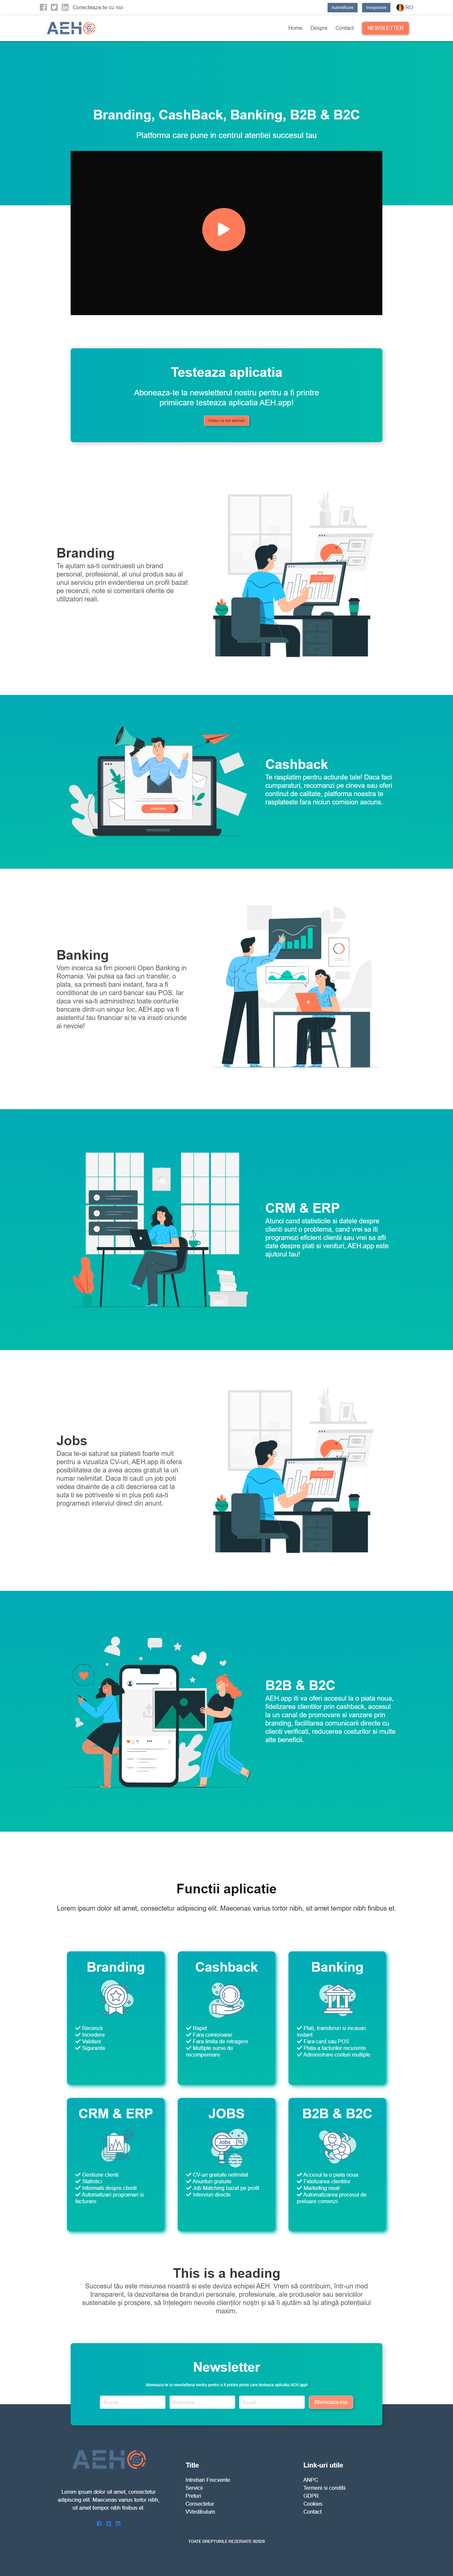
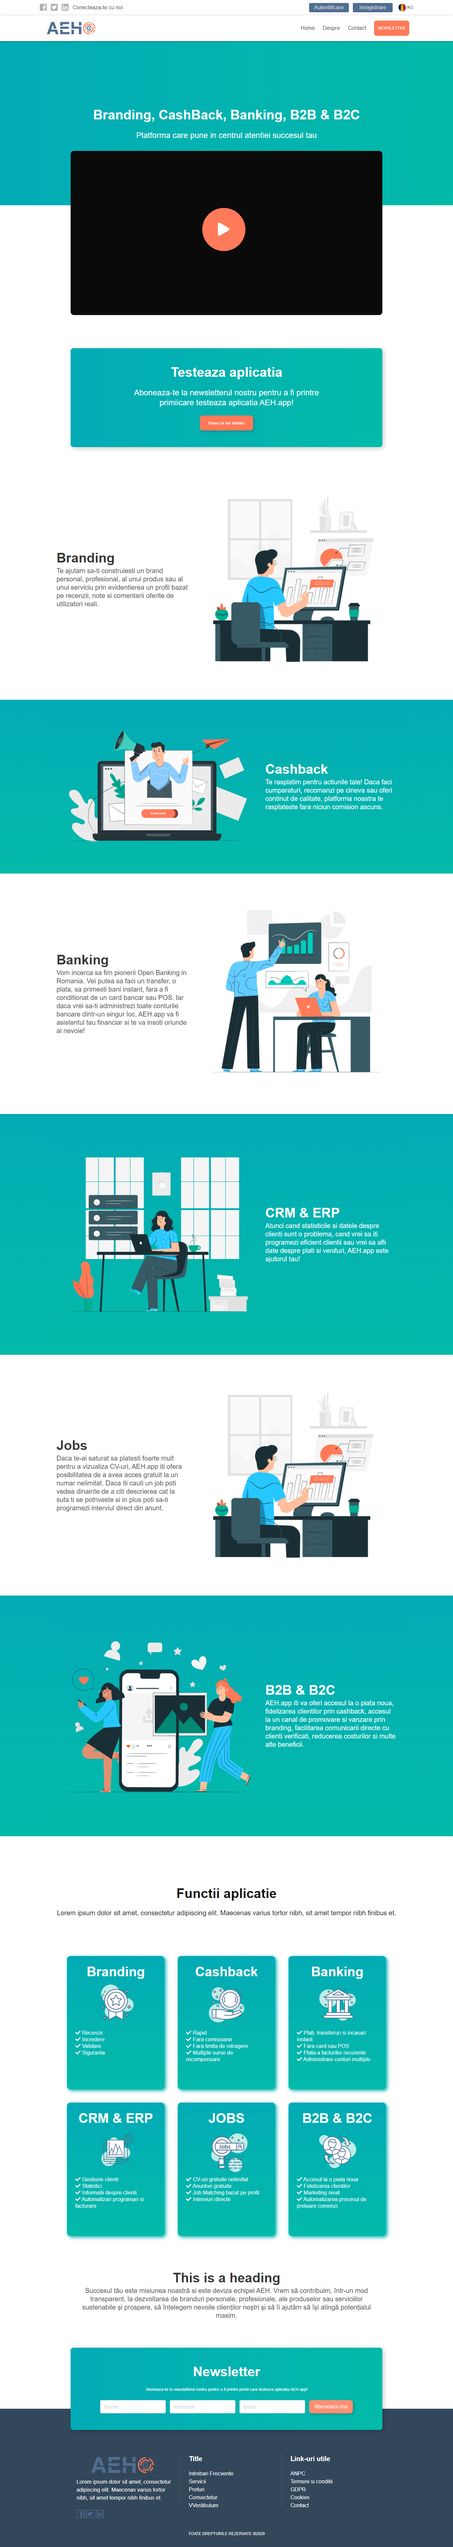
bulma

diff --git a/project-bulma/index.html b/project-bulma/index.html
@@ -17,17 +17,17 @@
                 <div class="level-item">Conecteaza-te cu noi</div>
             </div>
             <div class="level-right">
-                <p class="level-item"><a class="button is-small button-customize">Autentificare</a></p>
-                <p class="level-item"><a class="button is-small button-customize">Inregistrare</a></p>
+                <p class="level-item"><a class="button is-small button-customize is-size-6">Autentificare</a></p>
+                <p class="level-item"><a class="button is-small button-customize is-size-6">Inregistrare</a></p>
                 <figure class="image is-32x32">
                     <img class="is-square" src="images/ro-flag.png">
                 </figure>
-                <div class="text">RO</div>
+                <div class="text is-size-7">RO</div>
             </div>
         </nav>
         <nav class="navbar" role="navigation" aria-label="main navigation">
             <div class="navbar-brand">
-                <a class="navbar-item" href="https://bulma.io">
+                <a class="navbar-item" href="">
                     <figure class="image">
                         <img src="images/aeh-logo-final.png" alt="AEH">
                     </figure>
@@ -40,18 +40,18 @@
             </div>
             <div id="navbarBasicExample" class="navbar-menu">
                 <div class="navbar-end">
-                    <a class="navbar-item">
+                    <a class="navbar-item is-size-6">
                         Home
                     </a>
-                    <a class="navbar-item">
+                    <a class="navbar-item is-size-6">
                         Despre
                     </a>
-                    <a class="navbar-item">
+                    <a class="navbar-item is-size-6">
                         Contact
                     </a>
                     <div class="navbar-item">
                         <div class="buttons">
-                            <a class="button new">
+                            <a class="button new is-size-7 is-shadowless">
                                 NEWSLETTER
                             </a>
                         </div>
@@ -84,7 +84,7 @@
                     <div class="column is-four-fifths has-text-centered column-size">
                         <h1 class="title has-text-white is-2 is-spaced">Testeaza aplicatia</h1>
                         <h2 class="subtitle has-text-white is-4">Aboneaza-te la newsletterul nostru pentru a fi printre primiicare testeaza aplicatia AEH.app!</h2>
-                        <p><a class="button is-small button-app">Vreau sa ma abonez</a></p>
+                        <p><a class="button button-app is-size-7">Vreau sa ma abonez</a></p>
                     </div>
                 </div>
             </div>
@@ -335,19 +335,19 @@
         </section>
         <footer class="footer">
             <div class="content has-text-centered">
-                <div class="columns is-centered is-vcentered has-text-white">
+                <div class="columns is-centered is-vcentered has-text-white has-text-left is-size-6">
                     <div class="column is-one-quarter  column-margin">
-                        <figure class="image">
-                            <img src="images/aeh-logo-final.png" alt="AEH">
+                        <figure class="image image-position">
+                            <img src="images/aeh-logo-final.png" alt="AEH" class="image-costumize">
                         </figure>
                         <div class="content">Lorem ipsum dolor sit amet, consectetur adipiscing elit. Maecenas varius tortor nibh, sit amet tempor nibh finibus et.</div>
                         <div class="icons">
-                            <div class="icon"><a><i class="fab fa-facebook-square"></i></a></div>
-                            <div class="icon"><a><i class="fab fa-twitter-square"></i></a></div>
-                            <div class="icon"><a><i class="fab fa-linkedin"></i></a></div>
+                            <div class="icon"><i class="fab fa-facebook-square"></i></div>
+                            <div class="icon"><i class="fab fa-twitter-square"></i></div>
+                            <div class="icon"><i class="fab fa-linkedin"></i></div>
                         </div>
                     </div>
-                    <div class="is-divider-vertical" data-content="OR"></div>
+                    <div class="divider"></div>
                     <div class="column is-one-quarter column-margin has-text-left">
                         <ul class="menu-list">
                             <li class="title has-text-white is-5">Title</li>
@@ -358,6 +358,7 @@
                             <li>VVestibulum</li>
                         </ul>
                     </div>
+                    <div class="divider"></div>
                     <div class="column is-one-quarter column-margin has-text-left">
                         <ul class="menu-list">
                             <li class="title has-text-white is-5">Link-uri utile</li>

diff --git a/project-bulma/style.css b/project-bulma/style.css
@@ -21,6 +21,13 @@ body {
 .button-customize {
     background-color: #506E91;
     color: #DEDFDE;
+    width: 120px;
+    height: 28px;
+}
+
+.button.is-small {
+    border-radius: 3.5px;
+    font-size: .65rem;
 }
 
 nav {
@@ -41,7 +48,11 @@ nav {
     color: #FEFFFE;
     background-color: #FF7A59;
     border-radius: 8px;
-    box-shadow: 0px 1px 4px 0px rgba(0, 0, 0, 0.5);
+    height: 46px;
+}
+
+.button {
+    border: none;
 }
 
 .pre-video {
@@ -56,6 +67,7 @@ nav {
 .video {
     margin-top: -100px;
     height: calc(100vh - 130px);
+    border-radius: 10px;
 }
 
 .play-button {
@@ -82,6 +94,10 @@ nav {
 .button-app {
     background-color: #FF7A59;
     box-shadow: 3px 3px 7px 0 rgba(47, 47, 47, 0.35);
+    color: #FFFFFF;
+    height: 45px;
+    width: 160px;
+    border-radius: 8px;
 }
 .section-white {
     display: flex;
@@ -122,6 +138,8 @@ nav {
 .footer {
     background: #33475B;
     padding-top: 110px;
+    padding-left: 60px;
+    padding: 5rem 4rem 2rem;
 }
 
 li {
@@ -137,4 +155,25 @@ li {
     color: #FFFFFF;
     border-radius: 8px;
     box-shadow: 3px 3px 7px 0 rgba(47, 47, 47, 0.35);
+}
+
+.icon {
+    color: #33475B;
+    font-size: 24px;
+    background: #506E91;
+}
+
+.image-costumize {
+    margin-bottom: -40px;
+    margin-top: 40px;
+}
+
+.image-position {
+    width: 210px;
+}
+
+.divider {
+  border-left: 1px solid #495968;
+  height: 170px;
+  margin-right: -30px;
 }
